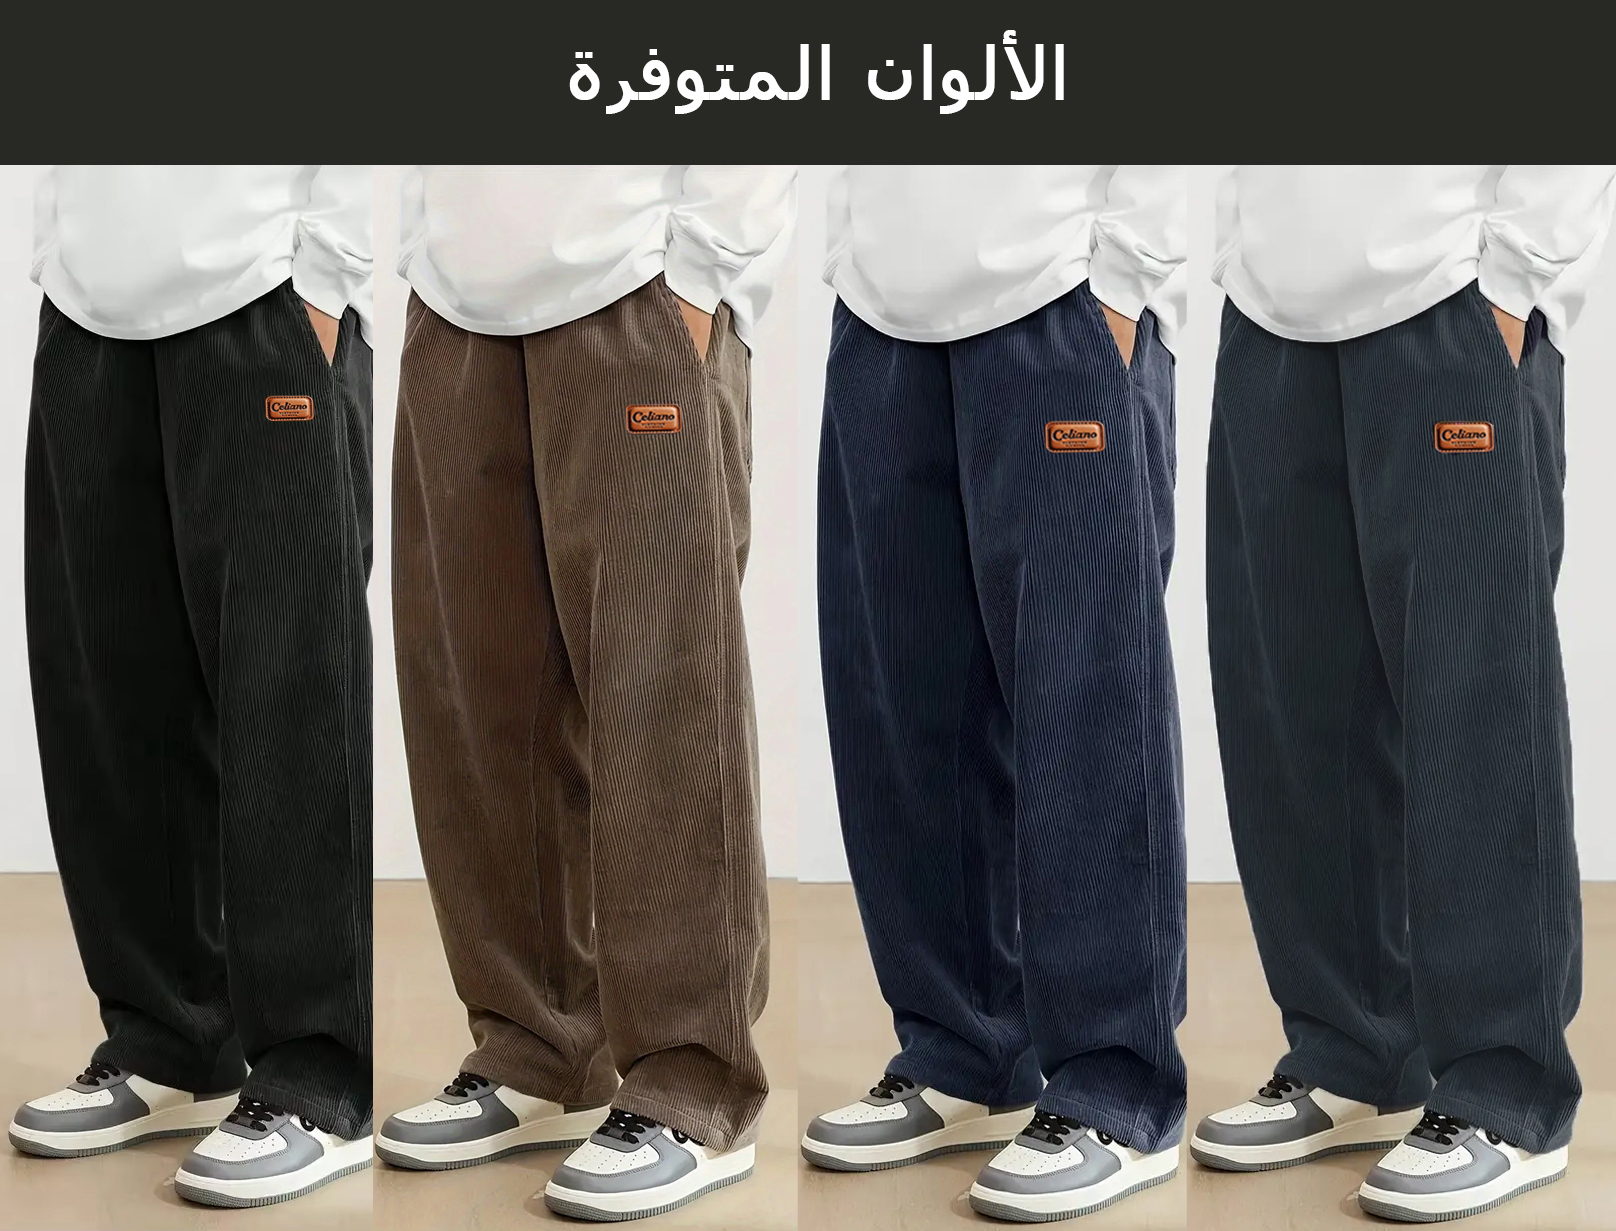
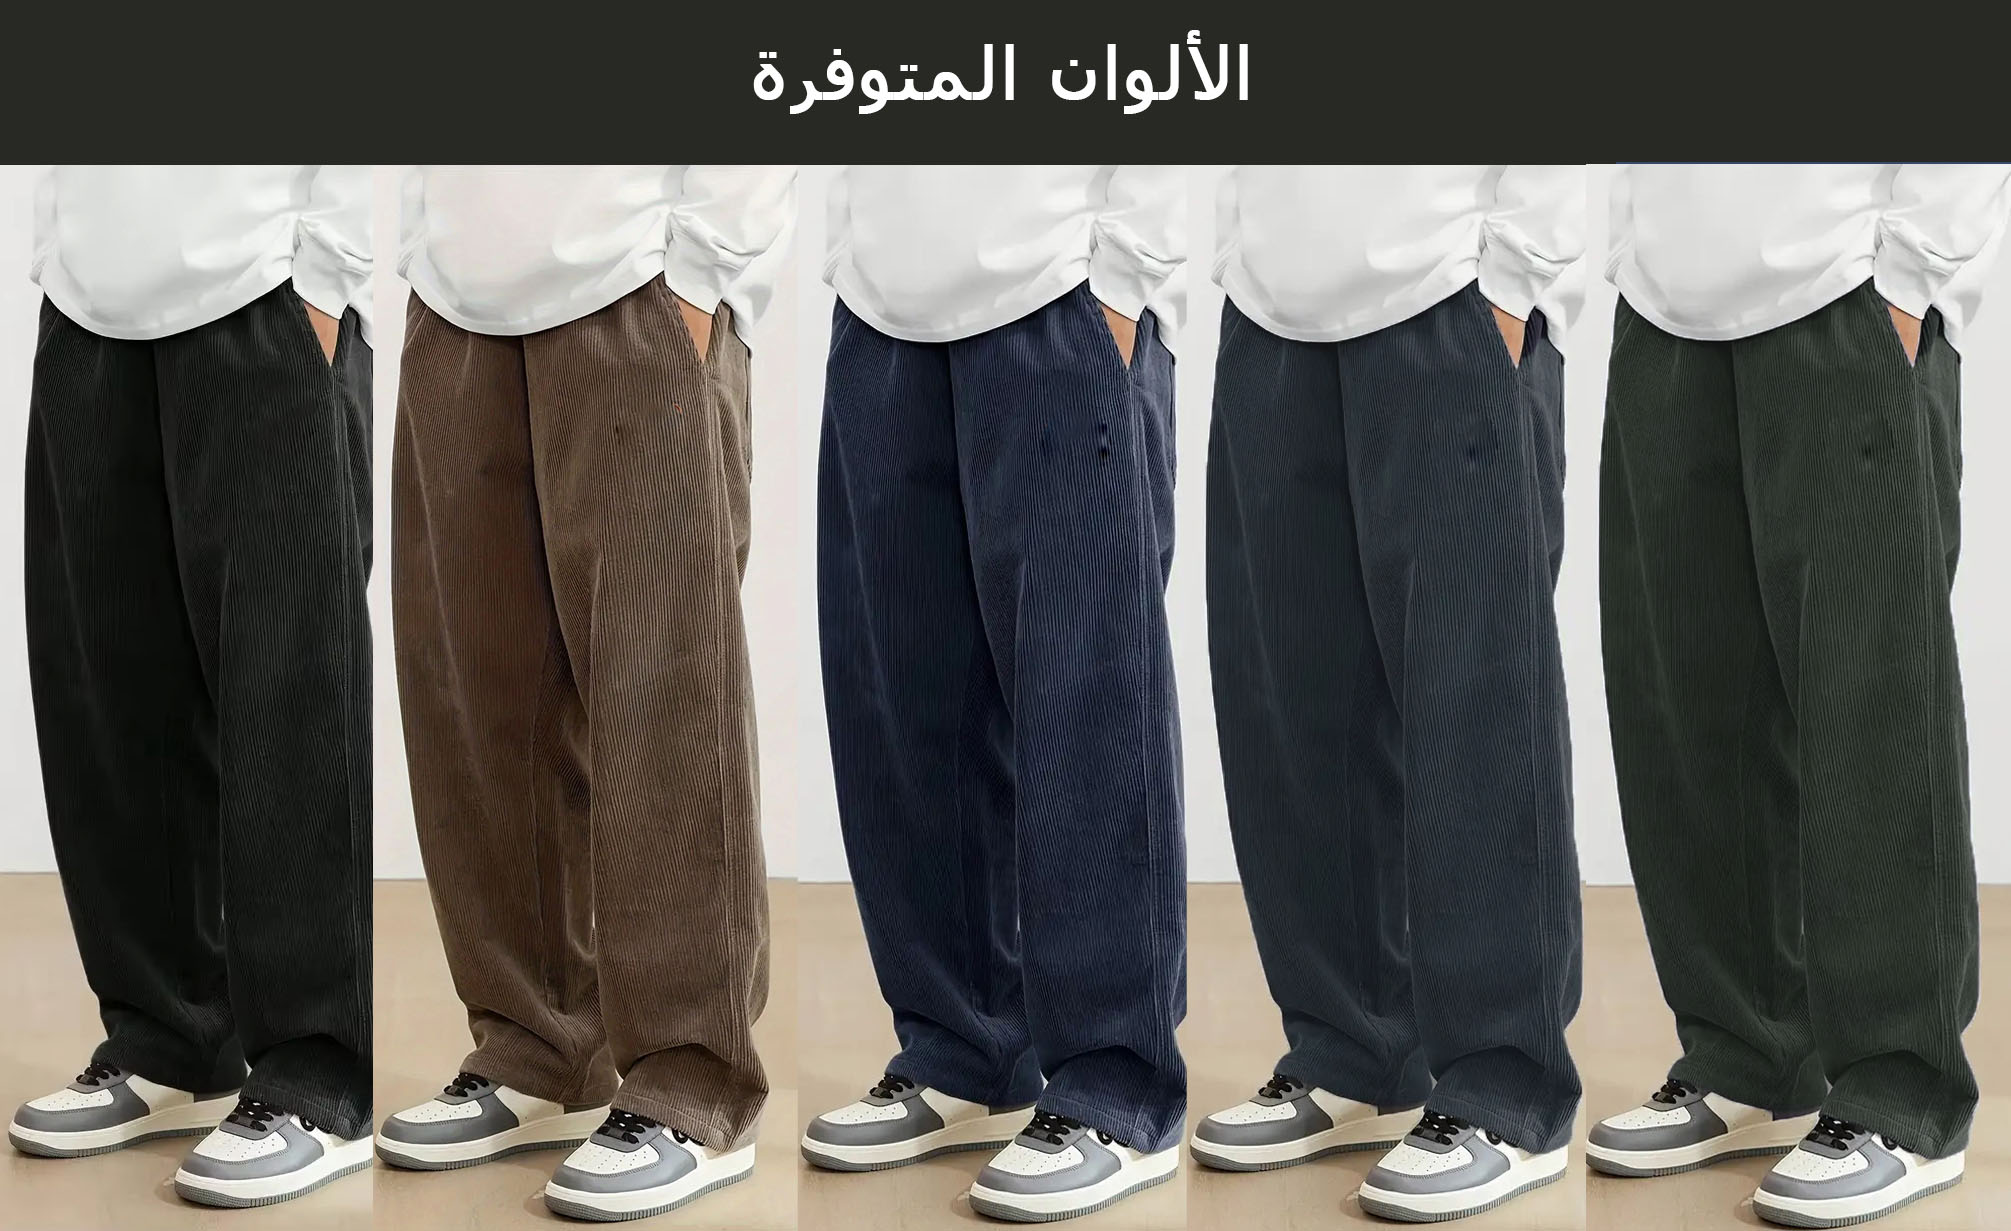
bt novamart to Az

diff --git a/baggy-trousers-novamart/index.html b/baggy-trousers-novamart/index.html
@@ -514,13 +514,13 @@
 
                     <div class="mySlides fade">
                         <div class="numbertext">1 / 7</div>
-                        <img src="images/noir1.jpg"
+                        <img src="images/gris1.jpg"
                             style="width:100%">
                     </div>
 
                     <div class="mySlides fade">
                         <div class="numbertext">2 / 7</div>
-                        <img src="images/noir2.jpg"
+                        <img src="images/gris2.jpg"
                             style="width:100%">
                     </div>
 
@@ -533,26 +533,36 @@
                     
 
                     <div class="mySlides fade">
-                        <div class="numbertext">4 / 7</div>
+                        <div class="numbertext">4 / 9</div>
+                        <img src="images/bleu2.jpg"
+                            style="width:100%">
+                    </div>
+					
+					<div class="mySlides fade">
+                        <div class="numbertext">5 / 9</div>
+                        <img src="images/noir1.jpg"
+                            style="width:100%">
+                    </div>
+					
+					<div class="mySlides fade">
+                        <div class="numbertext">6 / 9</div>
                         <img src="images/marron1.jpg"
                             style="width:100%">
                     </div>
 					
 					<div class="mySlides fade">
-                        <div class="numbertext">5 / 7</div>
+                        <div class="numbertext">7 / 9</div>
                         <img src="images/marron2.jpg"
                             style="width:100%">
                     </div>
-					
 					<div class="mySlides fade">
-                        <div class="numbertext">6 / 7</div>
-                        <img src="images/grisvert1.jpg"
+                        <div class="numbertext">8 / 9</div>
+                        <img src="images/vert1.jpg"
                             style="width:100%">
                     </div>
-					
 					<div class="mySlides fade">
-                        <div class="numbertext">7 / 7</div>
-                        <img src="images/grisvert2.jpg"
+                        <div class="numbertext">9 / 9</div>
+                        <img src="images/vert2.jpg"
                             style="width:100%">
                     </div>
 
@@ -655,6 +665,7 @@
                                                                 <option value="Gris">Gris Vert</option>
 																<option value="Marron">Marron</option>
 																<option value="Bleu">Bleu marine</option>
+																<option value="Gris">Gris</option>
 																<option value="Noir">Noir</option>
                                                             </select>
                                                             <label for="product_size_1">الحجم</label>
@@ -735,6 +746,7 @@
                                                                 <option value="Gris">Gris Vert</option>
 																<option value="Marron">Marron</option>
 																<option value="Bleu">Bleu marine</option>
+																<option value="Gris">Gris</option>
 																<option value="Noir">Noir</option>
                                                             </select>
                                                             <label for="product_size_3_1">الحجم</label>
@@ -754,6 +766,7 @@
                                                                 <option value="Gris">Gris Vert</option>
 																<option value="Marron">Marron</option>
 																<option value="Bleu">Bleu marine</option>
+																<option value="Gris">Gris</option>
 																<option value="Noir">Noir</option>
                                                             </select>
                                                             <label for="product_size_3_2">الحجم</label>
@@ -773,6 +786,7 @@
                                                                 <option value="Gris">Gris Vert</option>
 																<option value="Marron">Marron</option>
 																<option value="Bleu">Bleu marine</option>
+																<option value="Gris">Gris</option>
 																<option value="Noir">Noir</option>
                                                             </select>
                                                             <label for="product_size_3_3">الحجم</label>
@@ -920,7 +934,12 @@ document.addEventListener("DOMContentLoaded", function () {
                     
                   
                     <img src="images/body4.jpg" alt="">
-					<img src="images/colorfix.jpg" alt="">
+					<img src="images/gris1.jpg" alt="">
+					<img src="images/gri2.jpg" alt="">
+					<img src="images/bleu2.jpg" alt="">
+					<img src="images/noir1.jpg" alt="">
+					<img src="images/vert2.jpg" alt="">
+					
                     
                     
                     
